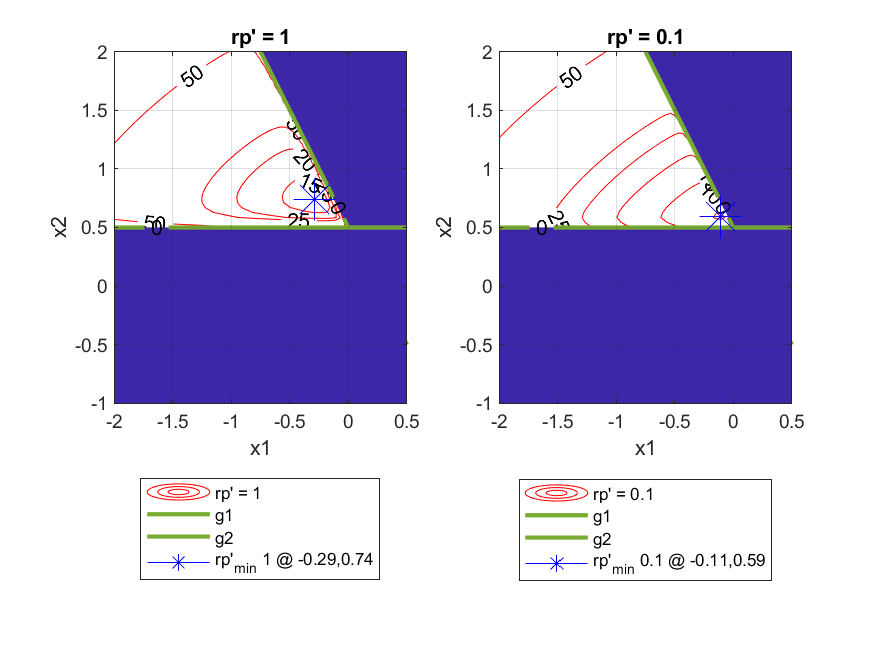
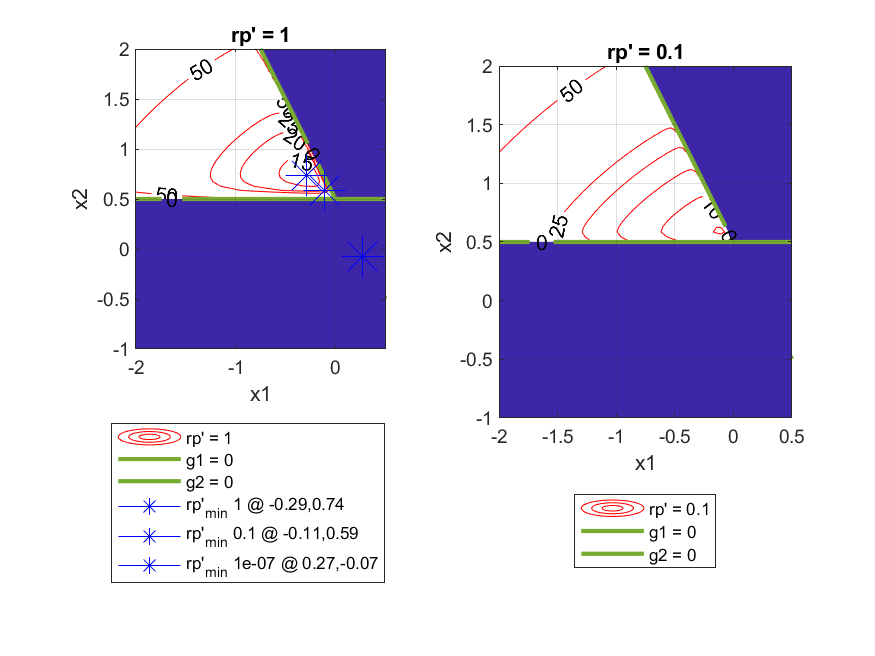
Minor changes --Submitted
Done. Some things may be off, but over all its clean

diff --git a/HW4.m b/HW4.m
@@ -68,8 +68,8 @@ hold on
     , g2_lim,'ShowText','on');
 %%%%%%%%%%%%%%%%%%%%%
 figure(fig_given);
-c1.DisplayName = "g1";
-c2.DisplayName = "g2";
+c1.DisplayName = "g1 = 0";
+c2.DisplayName = "g2 = 0";
 c1.LineColor = "#77AC30";
 c2.LineColor = "#77AC30";
 c1.LineWidth = 2;
@@ -115,9 +115,9 @@ axis(limits);
     , g1_lim, 'ShowText','on');
 [M2, c2] = contour(fc_g2.XData,fc_g2.YData, fc_g2.ZData ...
     , g2_lim,'ShowText','on');
-c1.DisplayName = "g1";
+c1.DisplayName = "g1 = 0";
 c1r1 = c1;
-c2.DisplayName = "g2";
+c2.DisplayName = "g2 = 0";
 c2r1 = c2;
 c1.LineColor = "#77AC30";
 c2.LineColor = "#77AC30";
@@ -147,8 +147,8 @@ axis(limits);
     , g1_lim, 'ShowText','on');
 [M2, c2] = contour(fc_g2.XData,fc_g2.YData, fc_g2.ZData ...
     , g2_lim,'ShowText','on');
-c1.DisplayName = "g1";
-c2.DisplayName = "g2";
+c1.DisplayName = "g1 = 0";
+c2.DisplayName = "g2 = 0";
 c1.LineColor = "#77AC30";
 c2.LineColor = "#77AC30";
 c1.LineWidth = 2;
@@ -252,9 +252,9 @@ axis(limits);
     , g1_lim, 'ShowText','on'); %#ok<*ASGLU>
 [M2, c2] = contour(fc_g2.XData,fc_g2.YData, fc_g2.ZData ...
     , g2_lim,'ShowText','on');
-c1.DisplayName = "g1";
+c1.DisplayName = "g1 = 0";
 c1r1 = c1;
-c2.DisplayName = "g2";
+c2.DisplayName = "g2 = 0";
 c2r1 = c2;
 c1.LineColor = "#77AC30";
 c2.LineColor = "#77AC30";
@@ -287,8 +287,8 @@ axis(limits);
     , g1_lim, 'ShowText','on');
 [M2, c2] = contour(fc_g2.XData,fc_g2.YData, fc_g2.ZData ...
     , g2_lim,'ShowText','on');
-c1.DisplayName = "g1";
-c2.DisplayName = "g2";
+c1.DisplayName = "g1 = 0";
+c2.DisplayName = "g2 = 0";
 c1.LineColor = "#77AC30";
 c2.LineColor = "#77AC30";
 c1.LineWidth = 2;
@@ -300,7 +300,7 @@ hold off
 %%%%%%%%%%%%%%%%%%%% Solve for pts %%%%%%%%%%%%%%%%%%%%%%%%%%%%%%
 pl = [RpP1,RpP01];
 x = 1;
-for rpp = [1,0.1]
+for rpp = [1,0.1,.0000001]
     small = [-10,10];
     objFUN2 = @(x1, x2) mF(x1, x2) + rpp .* ...
         f(x1,x2,eps);    
@@ -312,7 +312,9 @@ for rpp = [1,0.1]
             end
         end
     end
+    if x<2
     subplot(pl(x))
+    end
     hold on
     plot(small(1),small(2),'Marker','*','DisplayName',...
         sprintf('rp''_m_i_n %.3g @ %.3g,%.3g',rpp,small),...
@@ -321,6 +323,14 @@ for rpp = [1,0.1]
     x=x+1;
     hold off
 end
+% for x = [1,2]
+%    subplot(pl(x))
+%    hold on
+%    plot(small(1),small(2),'Marker','*','DisplayName',...
+%         sprintf('rp''_i_n_f @ %.3g,%.3g',small),...
+%         'MarkerSize',20,'Color','w'); 
+%    hold off
+% end
 saveas(fig_43, 'HW4_4-3_FILLoff.png');
 subplot(pl(1))
 hold on
@@ -353,9 +363,9 @@ axis(limits);
     , g1_lim, 'ShowText','on'); %#ok<*ASGLU>
 [M2, c2] = contour(fc_g2.XData,fc_g2.YData, fc_g2.ZData ...
     , g2_lim,'ShowText','on');
-c1.DisplayName = "g1";
+c1.DisplayName = "g1 = 0";
 c1r1 = c1;
-c2.DisplayName = "g2";
+c2.DisplayName = "g2 = 0";
 c2r1 = c2;
 c1.LineColor = "#77AC30";
 c2.LineColor = "#77AC30";
@@ -380,13 +390,13 @@ dx2_A = solve(diff(A,x2) == 0,x2);
 
 
 x1_interum = vpa(solve(subs(dx1_A, x2,...
-                            dx2_A)==x1,x1));
+                            dx2_A)==x1,x1))
 x1_new = vpa(subs(x1_interum,[L,T,rp_],...
-                             [lam1(1,1),lam1(2,1),RP]));
+                             [lam1(1,1),lam1(2,1),RP]))
 x2_new = vpa(solve(subs(dx2_A,[x1,L,T,rp_],...
                             [x1_new,lam1(1,1),lam1(2,1),RP])...
-                            ==x2,x2));
-lam1 = [lam1(1,1)+2*RP*g1(x1_new,x2_new);lam1(2,1)+2*RP*g2(x1_new,x2_new)];
+                            ==x2,x2))
+lam1 = [lam1(1,1)+2*RP*g1(x1_new,x2_new);lam1(2,1)+2*RP*g2(x1_new,x2_new)]
 xes(:,x_squiggle) = [x1_new;x2_new];
 plot(x1_new,x2_new,'Marker','*','DisplayName',...
         sprintf('x_n_e_w #%i @ %.3g,%.3g',x_squiggle,x1_new,x2_new),...
@@ -417,8 +427,8 @@ axis(limits);
     , g1_lim, 'ShowText','on'); %#ok<*ASGLU>
 [M2, c2] = contour(fc_g2.XData,fc_g2.YData, fc_g2.ZData ...
     , g2_lim,'ShowText','on');
-c1.DisplayName = "g1";
-c2.DisplayName = "g2";
+c1.DisplayName = "g1 = 0";
+c2.DisplayName = "g2 = 0";
 c1.LineColor = "#77AC30";
 c2.LineColor = "#77AC30";
 c1.LineWidth = 2;
